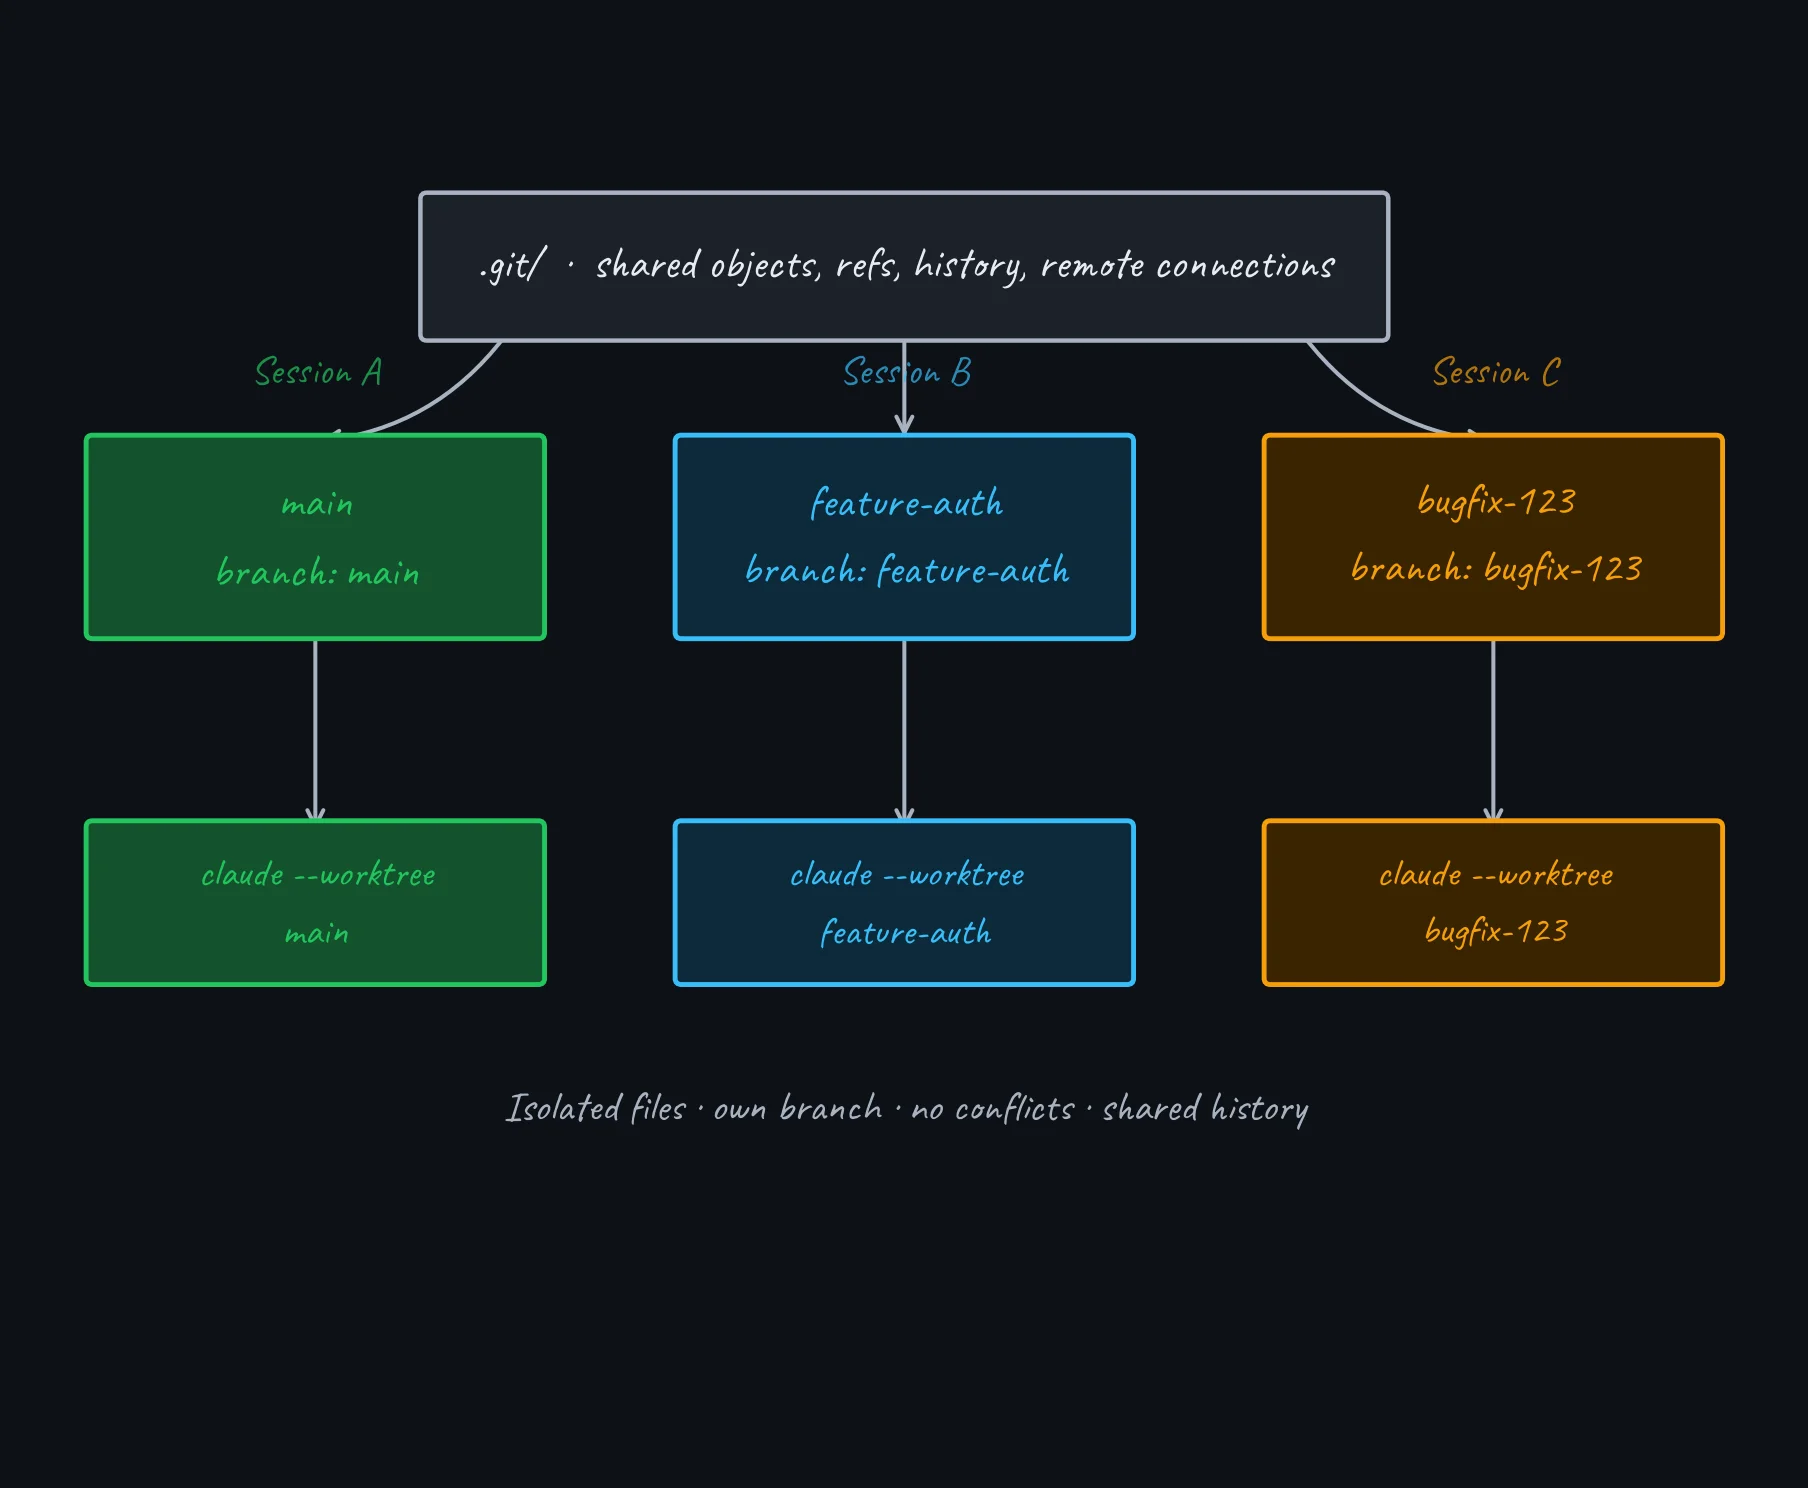
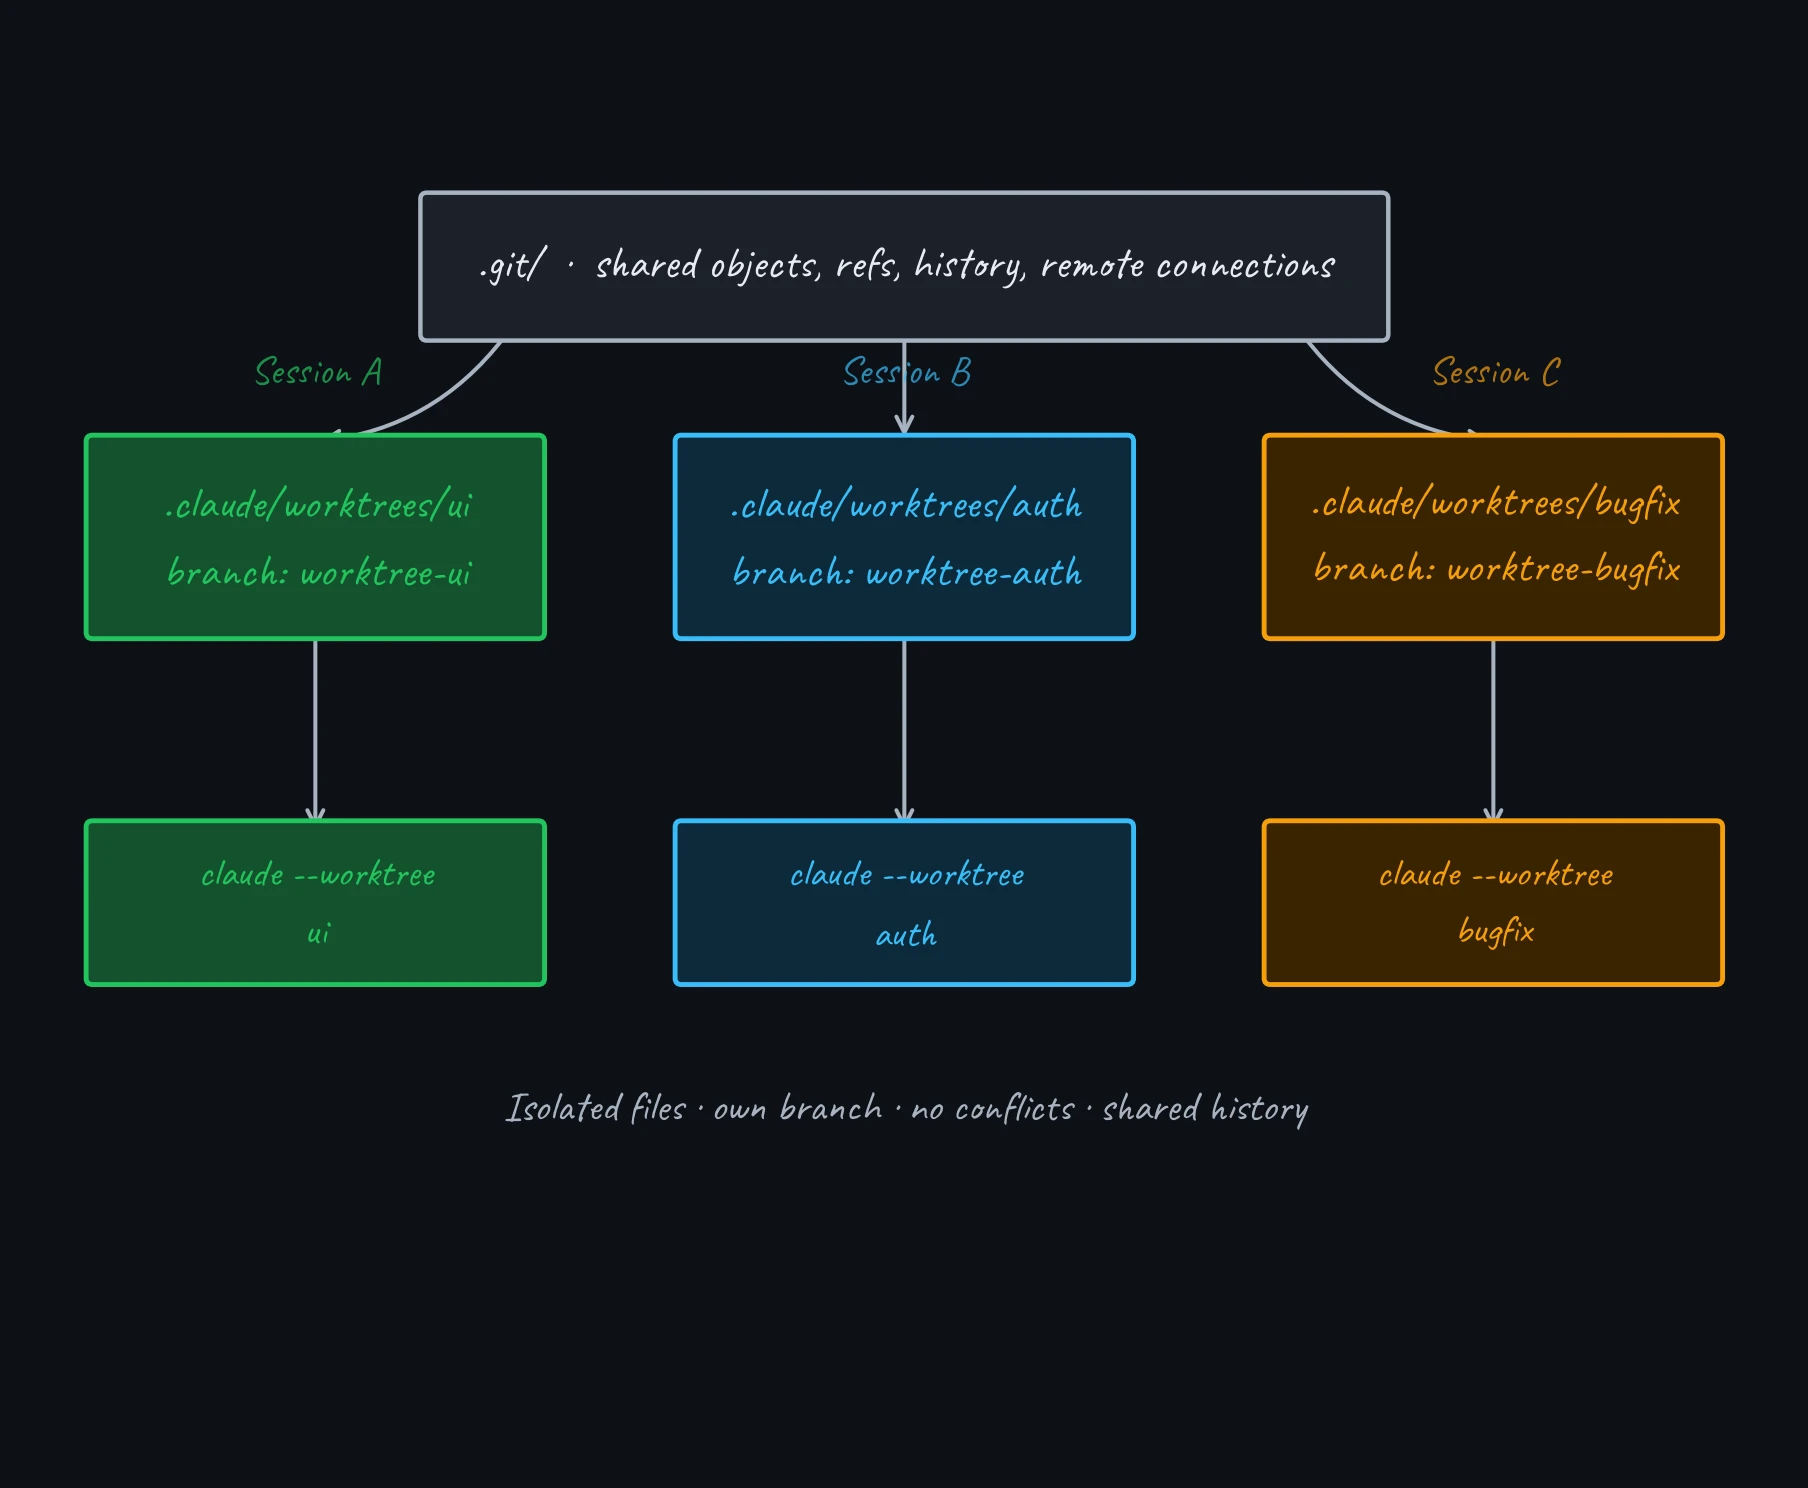
Refresh Claude Code usage guidance (#26)

diff --git a/meta-tags.html b/meta-tags.html
@@ -84,7 +84,7 @@
       "thumbnailUrl": "https://www.indrapatil.com/effective-claude-code-usage/media/social-media-card.webp",
       "inLanguage": "en",
       "datePublished": "2026-02-18",
-      "dateModified": "2026-06-20",
+      "dateModified": "2026-08-03",
       "encodingFormat": "text/html",
       "learningResourceType": "presentation",
       "license": "https://creativecommons.org/publicdomain/zero/1.0/",

diff --git a/media/generate_diagrams.py b/media/generate_diagrams.py
@@ -277,7 +277,7 @@ def make_05():
     box(ax, 5.4, 2.65, 3.0, 0.88, DAMB, 'Subdirectory\nCLAUDE.md', fs=21, tc=AMB)
     box(ax, 8.3, 2.65, 2.85, 0.88, DBLU, '@import\nsnippets', fs=21, tc=BLU)
 
-    box(ax, 4.5, 1.05, 6.4, 0.88, DGRN, 'Merged System Prompt  (injected every turn)',
+    box(ax, 4.5, 1.05, 6.4, 0.88, DGRN, 'Instruction Context  (loaded into conversation)',
         fs=21, tc=GRN, lw=2.8)
 
     arr(ax, 3.35, 5.75, 2.0, 4.69, col=MUT)
@@ -416,9 +416,9 @@ def make_11():
     # ── Worktree directory boxes ──────────────────────────────────
     # center y=5.8, h=1.2, top=6.4, bottom=5.2
     wt_xs     = [1.8,           5.5,                  9.2]
-    wt_labels = ['main\nbranch: main',
-                 'feature-auth\nbranch: feature-auth',
-                 'bugfix-123\nbranch: bugfix-123']
+    wt_labels = ['.claude/worktrees/ui\nbranch: worktree-ui',
+                 '.claude/worktrees/auth\nbranch: worktree-auth',
+                 '.claude/worktrees/bugfix\nbranch: worktree-bugfix']
     wt_cols   = [(DGRN, GRN), (DBLU, BLU), (DAMB, AMB)]
 
     for wx, wlbl, (wfc, wec) in zip(wt_xs, wt_labels, wt_cols):
@@ -431,9 +431,9 @@ def make_11():
 
     # ── Claude Code session boxes ─────────────────────────────────
     # center y=3.5, h=0.85, top=3.925, bottom=3.075
-    sess_labels = ['claude --worktree\nmain',
-                   'claude --worktree\nfeature-auth',
-                   'claude --worktree\nbugfix-123']
+    sess_labels = ['claude --worktree\nui',
+                   'claude --worktree\nauth',
+                   'claude --worktree\nbugfix']
 
     for wx, slbl, (sfc, sec) in zip(wt_xs, sess_labels, wt_cols):
         box(ax, wx, 3.50, 2.80, 0.95, sfc, slbl, fs=18, tc=sec, lw=2.2, ec=sec)

diff --git a/README.md b/README.md
@@ -1,6 +1,6 @@
 # Effective Claude Code Usage
 
-Slides summarising patterns for using [Claude Code](https://docs.anthropic.com/en/docs/claude-code) effectively as a CLI agent — from tools, skills, and workflows to subagents, planning mode, and context management.
+Slides summarising patterns for using [Claude Code](https://code.claude.com/docs/en/overview) effectively as a CLI agent — from tools, skills, and workflows to subagents, planning mode, and context management.
 
 The slides can be seen here:<br>
 <https://www.indrapatil.com/effective-claude-code-usage/>
